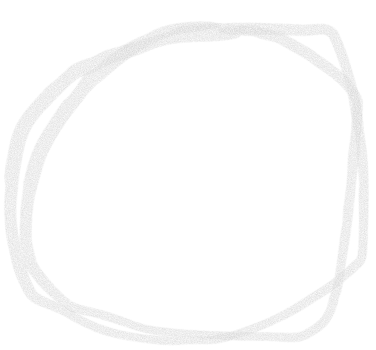
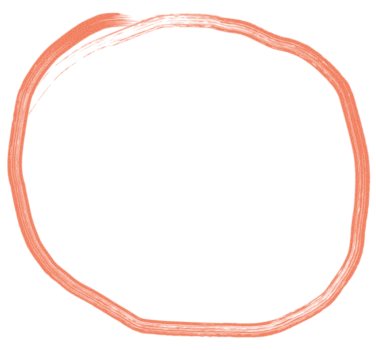
add ultramax and new circle highlight

Changed region(s): [[0.0, 0.0286, 0.9947, 0.9714], [0.2048, 0.2, 0.234, 0.2286]]

diff --git a/src/app/contact-sheet/utils/constants.ts b/src/app/contact-sheet/utils/constants.ts
@@ -6,7 +6,11 @@ export const MEASUREMENTS = {
 };
 
 // Film stock types and configurations
-export type FilmStock = 'ilford-hp5' | 'kodak-portra-400' | 'ilford-xp2';
+export type FilmStock =
+  | 'ilford-hp5'
+  | 'kodak-portra-400'
+  | 'ilford-xp2'
+  | 'kodak-ultramax-400';
 
 export interface FilmStockConfig {
   id: FilmStock;
@@ -69,6 +73,21 @@ export const FILM_STOCKS: Record<FilmStock, FilmStockConfig> = {
     },
     largeIndex: {
       right: '0px',
+      bottom: '0px',
+    },
+  },
+  'kodak-ultramax-400': {
+    id: 'kodak-ultramax-400',
+    name: 'Kodak Ultramax 400',
+    titleImage: '/kum400-title.png',
+    footerImage: '/kum400-footer.png',
+    color: '#DA7201',
+    smallIndex: {
+      bottom: '0px',
+      left: '90px',
+    },
+    largeIndex: {
+      left: '4px',
       bottom: '0px',
     },
   },
